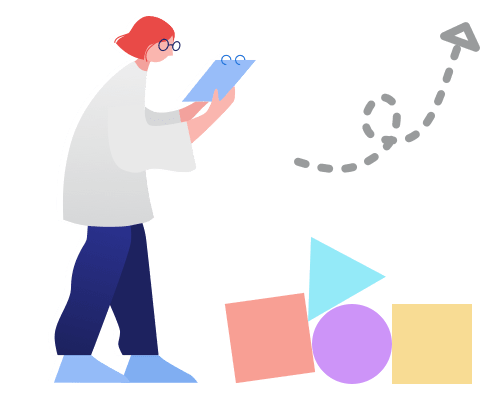
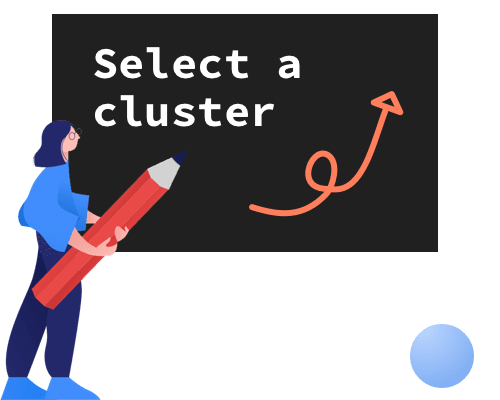
Cluster dropdown > unselected state image change

diff --git a/src/components/app/list-new/HelmAppList.tsx b/src/components/app/list-new/HelmAppList.tsx
@@ -317,8 +317,8 @@ export default function HelmAppList({ serverMode, payloadParsedFromUrl, sortAppl
         return <div style={{ height: "calc(100vh - 150px)" }}>
             <EmptyState>
                 <img src={NoClusterSelectImage} width="250" height="250" alt="No Cluster Selected" />
-                <h2 className="fs-16 fw-4 c-9">Select cluster to view deployed apps</h2>
-                <p className="text-left">Helm charts deployed from devtron or other sources will be shown here. Learn more</p>
+                <h2 className="fs-16 fw-4 c-9">Select cluster to see deployed apps</h2>
+                <p className="text-left">Helm-based applications deployed from devtron or other sources will be shown here. Learn more</p>
             </EmptyState>
         </div>
     }
